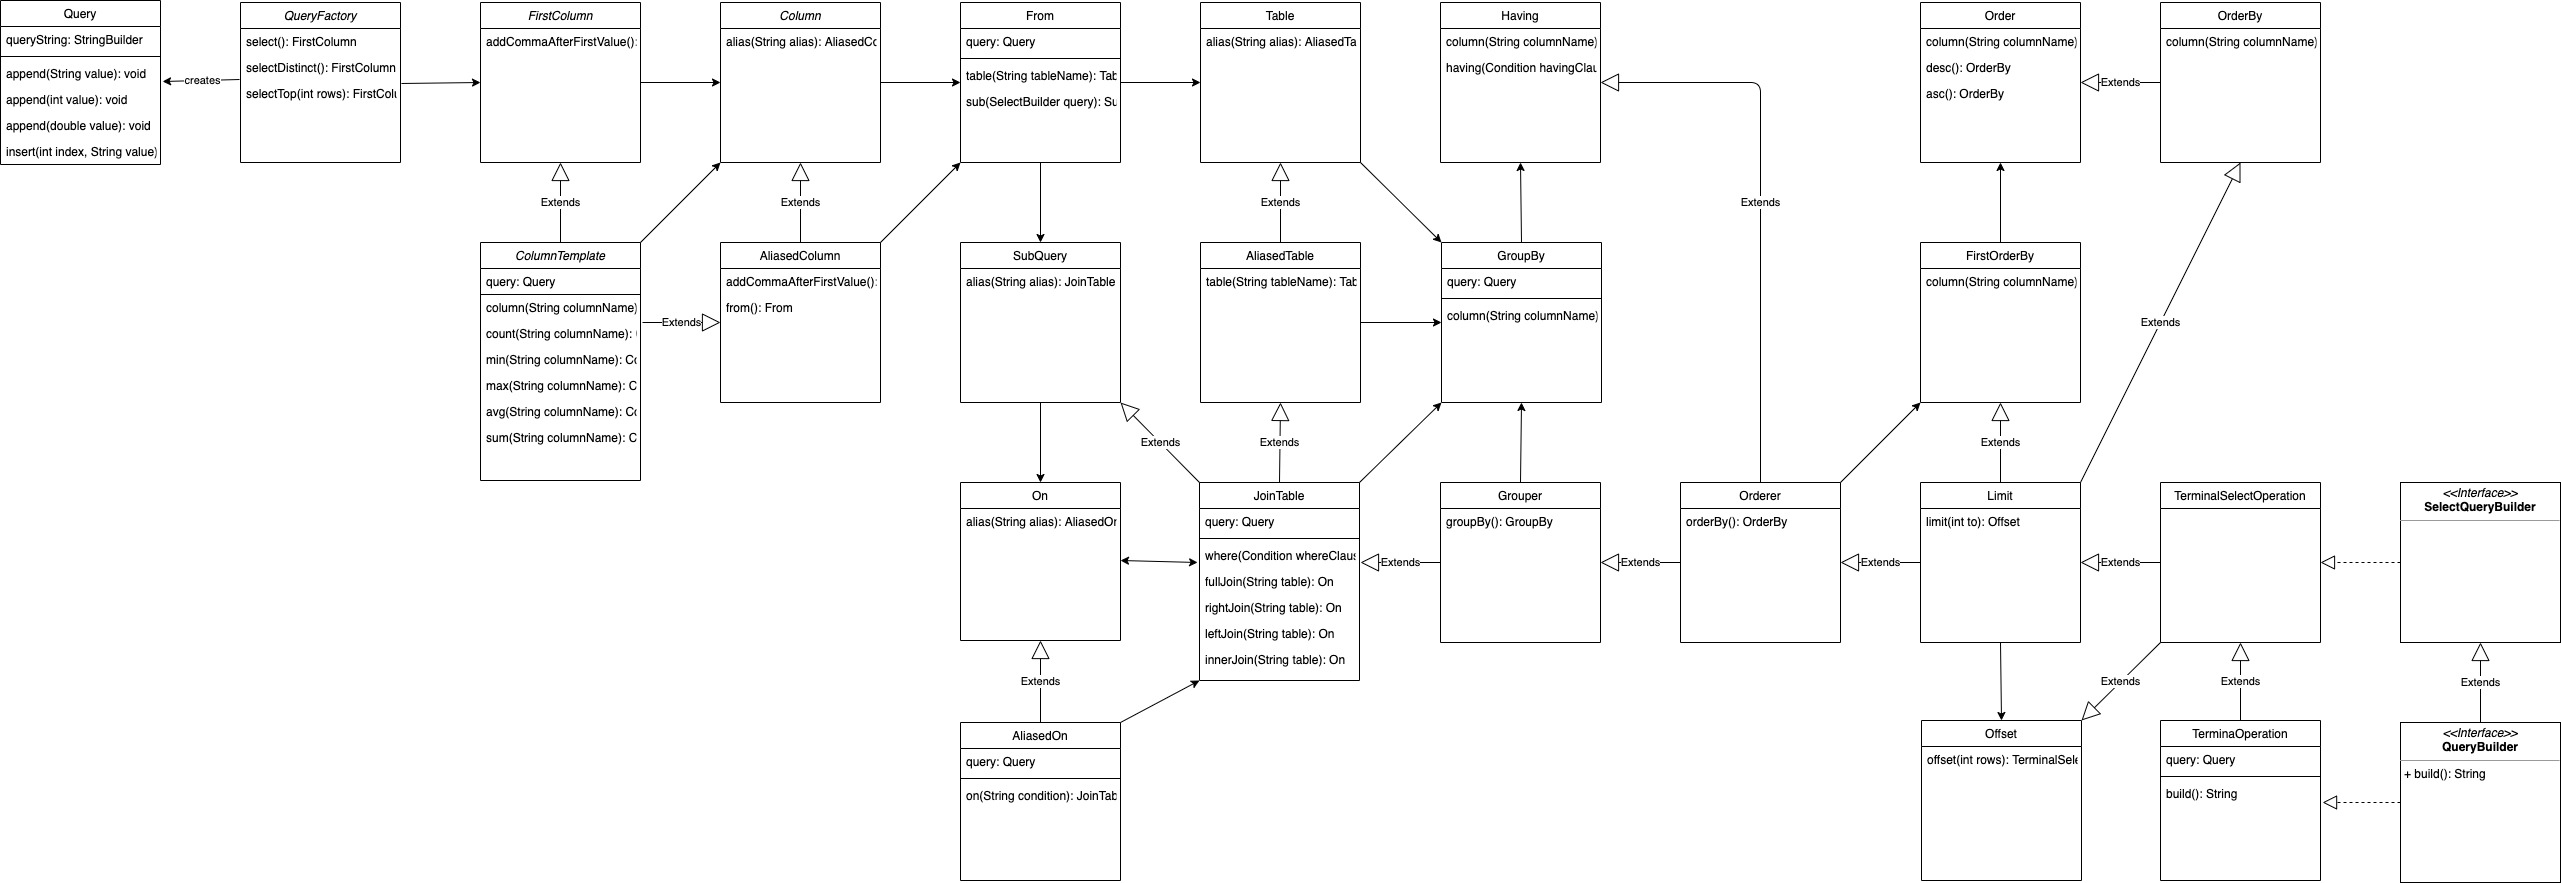
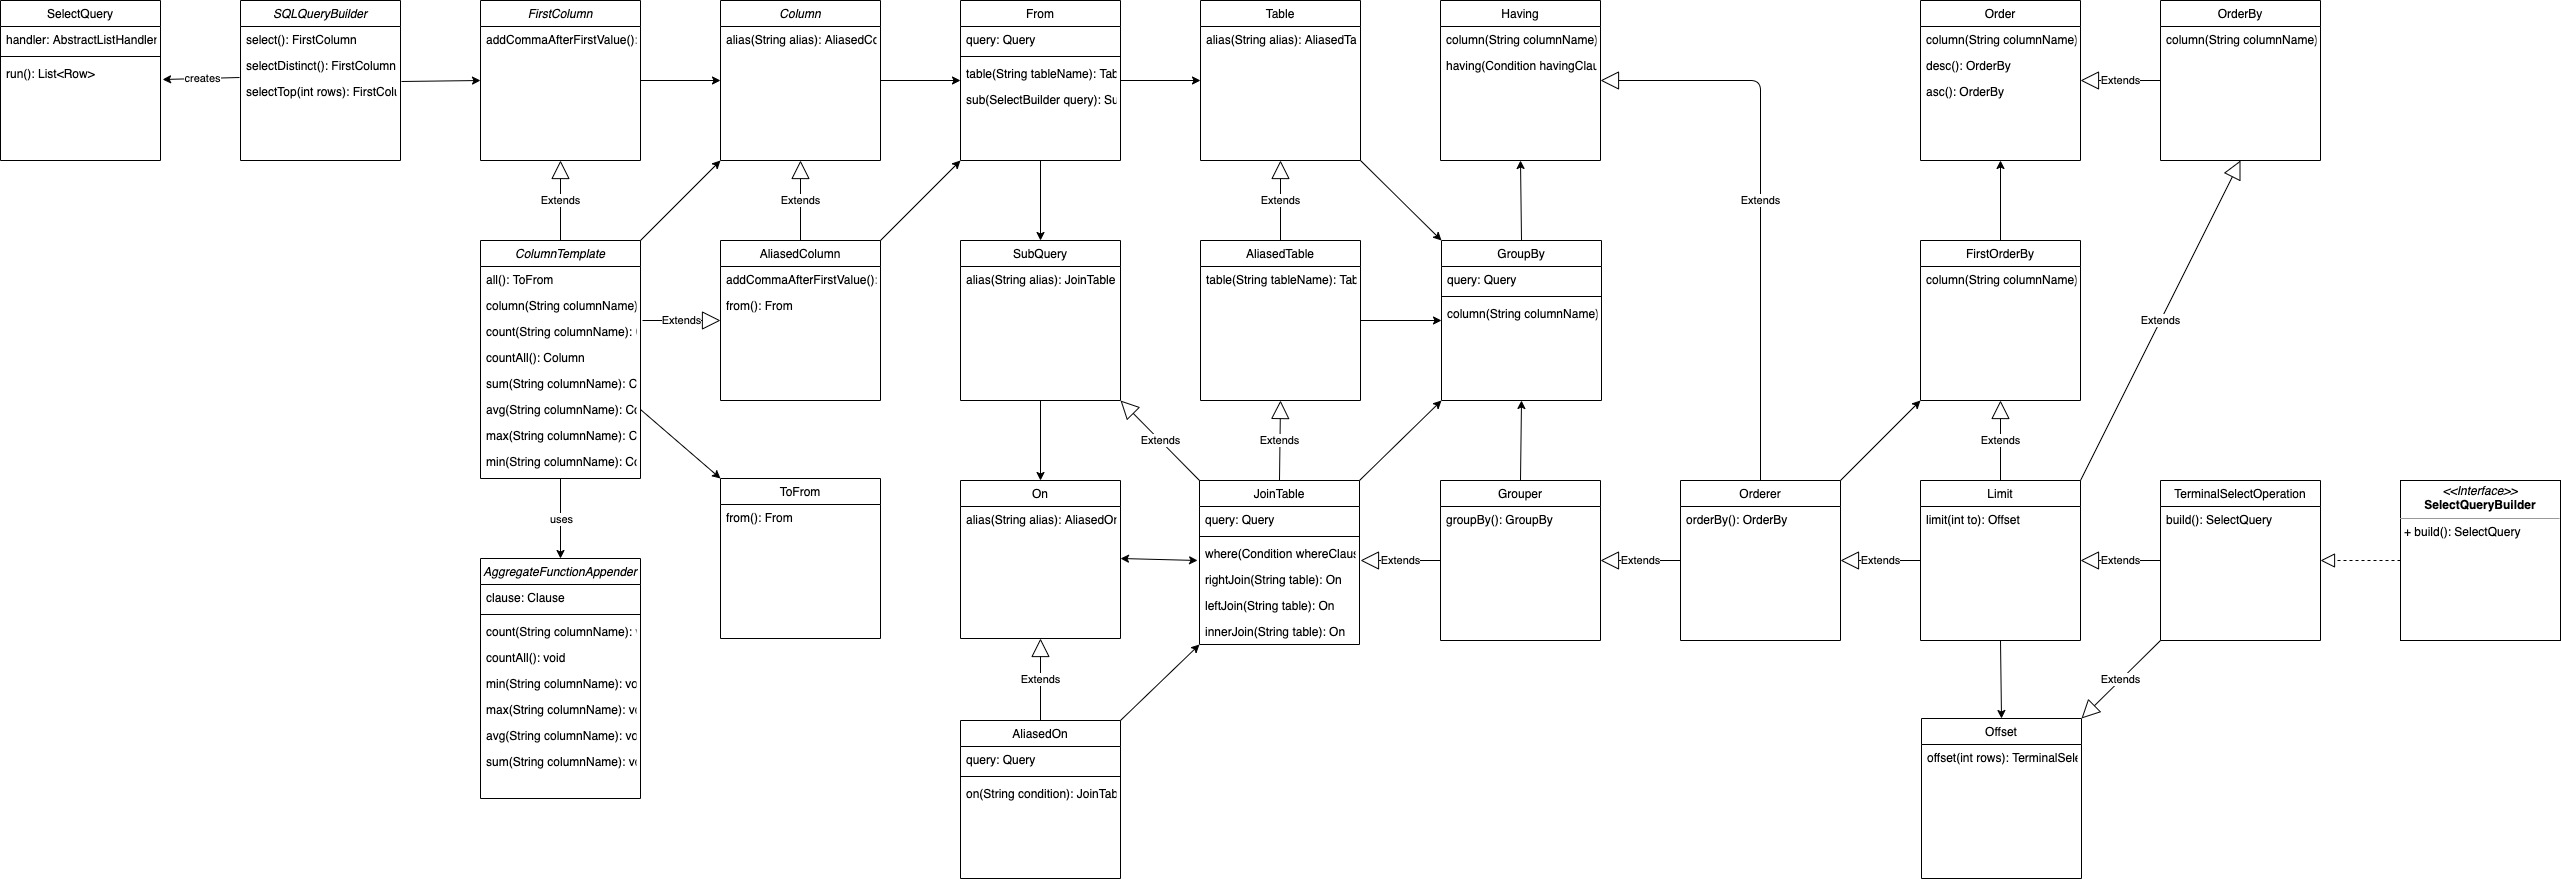
refactored queries and updates class diagrams

diff --git a/src/main/java/query/SQLQuery.java b/src/main/java/query/SQLQuery.java
@@ -4,6 +4,8 @@ import org.apache.commons.dbutils.QueryRunner;
 import org.slf4j.Logger;
 import org.slf4j.LoggerFactory;
 
+import java.sql.SQLException;
+
 public abstract class SQLQuery<T> extends SQLClause implements Query<T> {
     protected static Logger logger = LoggerFactory.getLogger(SQLQuery.class);
 
@@ -14,9 +16,25 @@ public abstract class SQLQuery<T> extends SQLClause implements Query<T> {
         this.run = run;
     }
 
+    public T execute() throws SQLException {
+        T result;
+
+        try {
+            result = this.run();
+
+        } catch (SQLException e) {
+            logger.info("Executing of query " + this + " failed");
+            logger.debug(e.getLocalizedMessage());
+            throw e;
+        }
+        return result;
+    }
+
     protected Object[] getParamValues() {
         return this.getParams().stream()
                 .map(columnValue -> columnValue.getValue())
                 .toArray();
     }
+
+    protected abstract T run() throws SQLException;
 }

diff --git a/src/main/java/query/dml/InsertQuery.java b/src/main/java/query/dml/InsertQuery.java
@@ -1,25 +1,27 @@
 package query.dml;
 
+import org.apache.commons.dbutils.QueryRunner;
 import org.apache.commons.dbutils.handlers.ScalarHandler;
+import query.SQLQuery;
 
 import javax.sql.DataSource;
 import java.sql.SQLException;
 
-public class InsertQuery extends DMLBaseQuery {
+public class InsertQuery extends SQLQuery<Integer> {
 
     public InsertQuery(StringBuilder queryString, DataSource dataSource) {
-        super(queryString, dataSource);
+        super(queryString, new QueryRunner(dataSource));
     }
 
     /**
-     * Executes INSERT database query for this query string.
+     * Executes INSERT query for this query string.
      *
      * @return Database primary key of inserted row
      *
      * @throws SQLException if SQL exception occurs
      */
     @Override
-    protected int run() throws SQLException {
+    protected Integer run() throws SQLException {
         return run.insert(this.getQueryString(), new ScalarHandler<Integer>(), this.getParamValues());
     }
 

diff --git a/src/main/java/query/dql/SelectQuery.java b/src/main/java/query/dql/SelectQuery.java
@@ -22,17 +22,17 @@ public class SelectQuery extends SQLQuery<List<Row>> {
         this.handler = handler;
     }
 
-    public List<Row> execute() throws SQLException {
-        List<Row> result;
-
-        try {
-            result = run.query(this.getQueryString(), handler, this.getParamValues());
-
-        } catch (SQLException e) {
-            logger.info("Executing of query " + this + " failed");
-            logger.debug(e.getLocalizedMessage());
-            throw e;
-        }
-        return result;
+    /**
+     * Executes SELECT query for this query string. Uses
+     * AbstractListHandler to create Row objects from
+     * database ResultSet.
+     *
+     * @return List of Row objects which represents database rows
+     *
+     * @throws SQLException if SQL exception occurs
+     */
+    @Override
+    protected List<Row> run() throws SQLException {
+        return run.query(this.getQueryString(), handler, this.getParamValues());
     }
 }

diff --git a/src/main/java/query/dml/DeleteQuery.java b/src/main/java/query/dml/DeleteQuery.java
@@ -1,23 +1,26 @@
 package query.dml;
 
+import org.apache.commons.dbutils.QueryRunner;
+import query.SQLQuery;
+
 import javax.sql.DataSource;
 import java.sql.SQLException;
 
-public class DeleteQuery extends DMLBaseQuery {
+public class DeleteQuery extends SQLQuery<Integer> {
 
     public DeleteQuery(StringBuilder queryString, DataSource dataSource) {
-        super(queryString, dataSource);
+        super(queryString, new QueryRunner(dataSource));
     }
 
     /**
-     * Executes DELETE database query for this query string.
+     * Executes DELETE query for this query string.
      *
      * @return Number of rows deleted
      *
      * @throws SQLException if SQL exception occurs
      */
     @Override
-    protected int run() throws SQLException {
+    protected Integer run() throws SQLException {
         return run.update(this.getQueryString(), this.getParamValues());
     }
 }

diff --git a/src/main/java/query/dml/UpdateQuery.java b/src/main/java/query/dml/UpdateQuery.java
@@ -1,23 +1,26 @@
 package query.dml;
 
+import org.apache.commons.dbutils.QueryRunner;
+import query.SQLQuery;
+
 import javax.sql.DataSource;
 import java.sql.SQLException;
 
-public class UpdateQuery extends DMLBaseQuery {
+public class UpdateQuery extends SQLQuery<Integer> {
 
     public UpdateQuery(StringBuilder queryString, DataSource dataSource) {
-        super(queryString, dataSource);
+        super(queryString, new QueryRunner(dataSource));
     }
 
     /**
-     * Executes UPDATE database query for this query string.
+     * Executes UPDATE query for this query string.
      *
      * @return Number of rows updated
      *
      * @throws SQLException if SQL exception occurs
      */
     @Override
-    protected int run() throws SQLException {
+    protected Integer run() throws SQLException {
         return run.update(this.getQueryString(), this.getParamValues());
     }
 }

diff --git a/src/main/java/query/ddl/CreateQuery.java b/src/main/java/query/ddl/CreateQuery.java
@@ -1,9 +1,19 @@
 package query.ddl;
 
-import javax.sql.DataSource;
+import org.apache.commons.dbutils.QueryRunner;
+import query.SQLQuery;
 
-public class CreateQuery extends DDLBaseQuery {
+import javax.sql.DataSource;
+import java.sql.SQLException;
+
+public class CreateQuery extends SQLQuery<Void> {
     public CreateQuery(StringBuilder queryString, DataSource dataSource) {
-        super(queryString, dataSource);
+        super(queryString, new QueryRunner(dataSource));
+    }
+
+    @Override
+    protected Void run() throws SQLException {
+        run.execute(this.getQueryString(), this.getParamValues());
+        return null;
     }
 }

diff --git a/src/main/java/query/ddl/DropQuery.java b/src/main/java/query/ddl/DropQuery.java
@@ -1,9 +1,19 @@
 package query.ddl;
 
-import javax.sql.DataSource;
+import org.apache.commons.dbutils.QueryRunner;
+import query.SQLQuery;
 
-public class DropQuery extends DDLBaseQuery {
+import javax.sql.DataSource;
+import java.sql.SQLException;
+
+public class DropQuery extends SQLQuery<Void> {
     public DropQuery(StringBuilder queryString, DataSource dataSource) {
-        super(queryString, dataSource);
+        super(queryString, new QueryRunner(dataSource));
+    }
+
+    @Override
+    protected Void run() throws SQLException {
+        run.execute(this.getQueryString(), this.getParamValues());
+        return null;
     }
 }

diff --git a/src/main/java/query/SQLClause.java b/src/main/java/query/SQLClause.java
@@ -35,10 +35,4 @@ public class SQLClause extends SQLStatement implements Clause {
     public String toString() {
         return StringUtils.replaceQuestionMarksWithParams(this.getQueryString(), this.params);
     }
-
-    protected Object[] getParamValues() {
-        return this.params.stream()
-                .map(columnValue -> columnValue.getValue())
-                .toArray();
-    }
 }

diff --git a/docs/design.md b/docs/design.md
@@ -2,13 +2,14 @@
 
 ## Table of contents
 1. [About the design](#about)
-2. [WHERE and HAVING](#condition)
-3. [SELECT statement](#select)
-4. [INSERT statement](#insert)
-5. [UPDATE statement](#update)
-6. [CREATE statement](#create)
-7. [DELETE statement](#delete)
-8. [DROP statement](#drop)
+2. [Query, Clause and Statement](#query)
+3. [WHERE and HAVING](#condition)
+4. [SELECT statement](#select)
+5. [INSERT statement](#insert)
+6. [UPDATE statement](#update)
+7. [CREATE statement](#create)
+8. [DELETE statement](#delete)
+9. [DROP statement](#drop)
 
 ## <a name="about"></a>About the design
 
@@ -18,6 +19,16 @@ I have used [builder pattern](https://en.wikipedia.org/wiki/Builder_pattern) in 
 This design enforces correct SQL syntax when building queries.
 
 From class diagrams below **is intentionally missing some classes, methods and relations**, for the sake of simplicity.  
+
+## <a name="query"></a>Query, Clause and Statement
+
+Package `/src/main/java/query` contains classes of `Query`, `Clause` and `Statement` objects.
+
+These classes represents SQL statements, clauses and queries that `SQLQueryBuilder` builds and which can be used to execute database queries.
+
+### Class diagram
+
+![Query_class_diagram](https://github.com/MiguelSombrero/sql-query-builder/blob/develop/docs/query-class-diagram.jpg)
 
 ## <a name="condition"></a>WHERE and HAVING conditions
 
